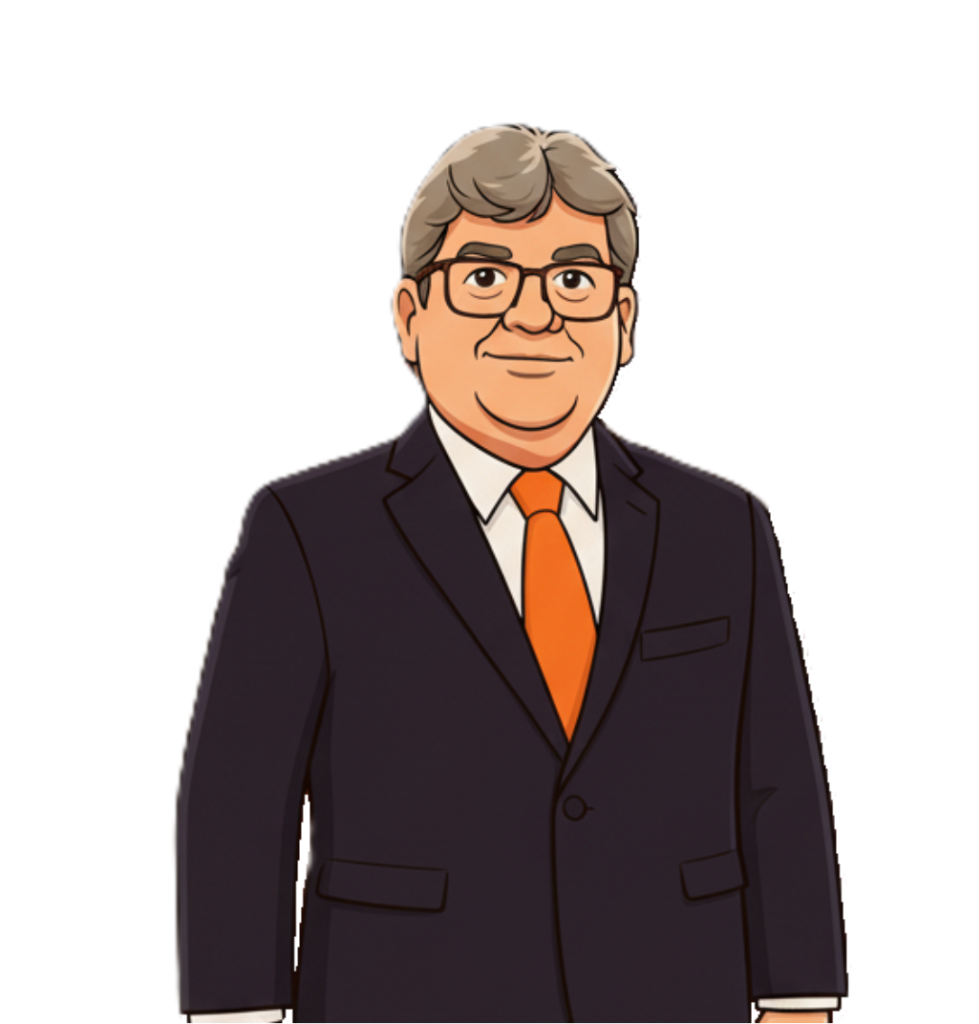
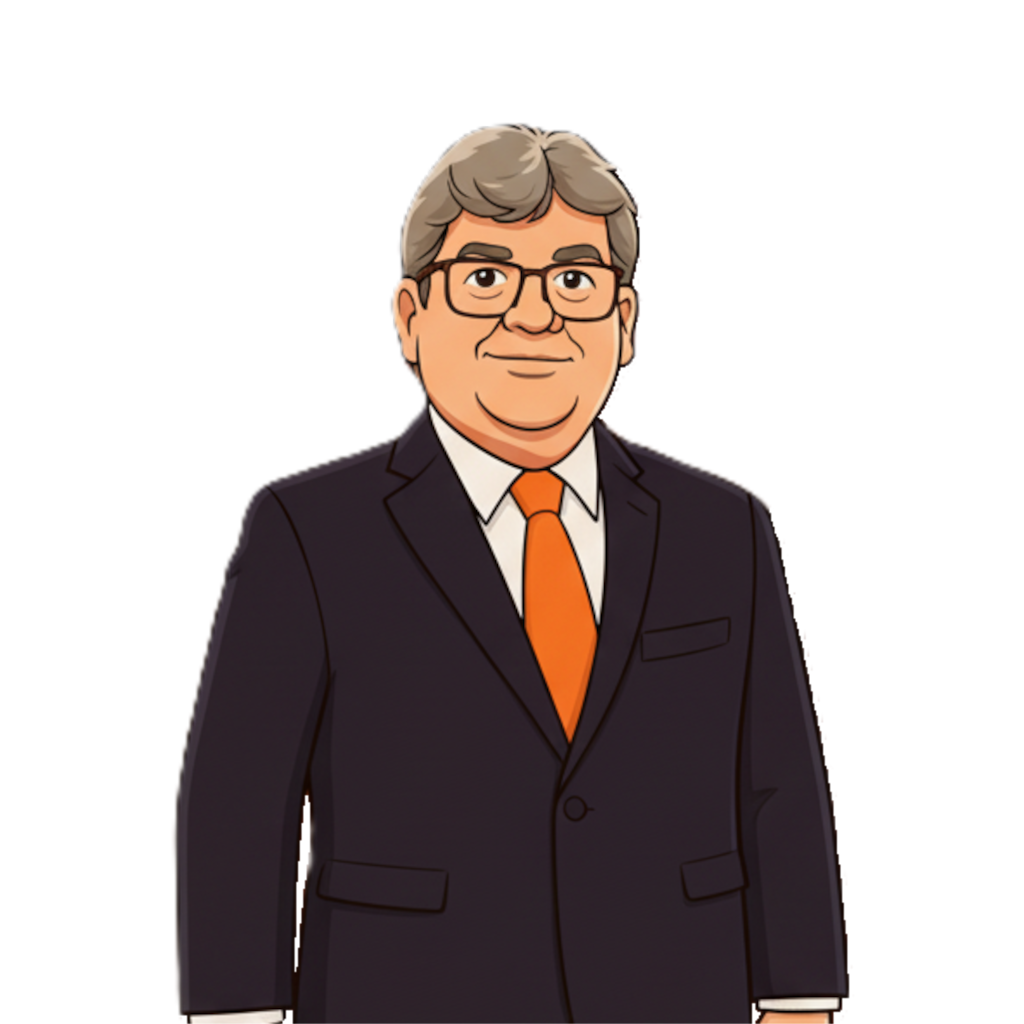
feat: ajustes

diff --git a/ChatWindow.py b/ChatWindow.py
@@ -8,7 +8,7 @@ class ChatWindow(QMainWindow):
     def __init__(self):
         super().__init__()
         self.setWindowTitle("Chat com JA")
-        self.setGeometry(100, 100, 1400, 900)
+        self.setGeometry(100, 100, 1280, 720)
         self.setStyleSheet("background-color: #4f4e4e;")
 
         self.setup_ui()
@@ -41,7 +41,7 @@ class ChatWindow(QMainWindow):
 
         # Espaço para avatar
         left_spacer = QWidget()
-        left_spacer.setFixedWidth(470)
+        left_spacer.setFixedWidth(520)
         left_spacer.setStyleSheet("background-color: transparent;")
 
         # Layout do chat
@@ -89,13 +89,13 @@ class ChatWindow(QMainWindow):
 
         # Avatar
         self.avatar_label = QLabel(self)
-        self.avatar_label.setFixedSize(450, 450)
-        self.avatar_label.move(20, self.height() - 440)
+        self.avatar_label.setFixedSize(600, 600)
+        self.avatar_label.move(20, self.height() - 470)
         self.avatar_label.setStyleSheet("background-color: transparent; border:none; border-radius:20%;")
 
     def resizeEvent(self, event):
         if hasattr(self, 'avatar_label'):
-            self.avatar_label.move(20, self.height() - 440)
+            self.avatar_label.move(20, self.height() - 470)
         super().resizeEvent(event)
 
     # -------------------- Avatar States --------------------
@@ -118,7 +118,7 @@ class ChatWindow(QMainWindow):
     def load_avatar_image(self, path):
         pixmap = QPixmap(path)
         if not pixmap.isNull():
-            self.avatar_label.setPixmap(pixmap.scaled(440, 440, Qt.KeepAspectRatio, Qt.SmoothTransformation))
+            self.avatar_label.setPixmap(pixmap.scaled(500, 500, Qt.KeepAspectRatio, Qt.SmoothTransformation))
         else:
             self.avatar_label.setText("Imagem\nnão\nencontrada")
 
@@ -129,7 +129,7 @@ class ChatWindow(QMainWindow):
 
         pixmap = QPixmap(self.speaking_frames[self.current_frame])
         if not pixmap.isNull():
-            self.avatar_label.setPixmap(pixmap.scaled(440, 440, Qt.KeepAspectRatio, Qt.SmoothTransformation))
+            self.avatar_label.setPixmap(pixmap.scaled(500, 500, Qt.KeepAspectRatio, Qt.SmoothTransformation))
 
         self.current_frame += 1
         if self.current_frame >= len(self.speaking_frames):

diff --git a/ChatResponse.py b/ChatResponse.py
@@ -27,7 +27,7 @@ class ChatResponse:
     def process(self, message: str) -> str:
         #resposta = self.agent.run(message)
         #texto = resposta.content
-        texto = "Como posso ajudar?"
+        texto = "Olá! Fico feliz em poder oferecer minha ajuda. Por favor, compartilhe um pouco mais sobre o que você precisa, assim posso entender melhor sua situação e te orientar da maneira mais adequada."
         self.gerar_audio(texto)
         return texto
 
